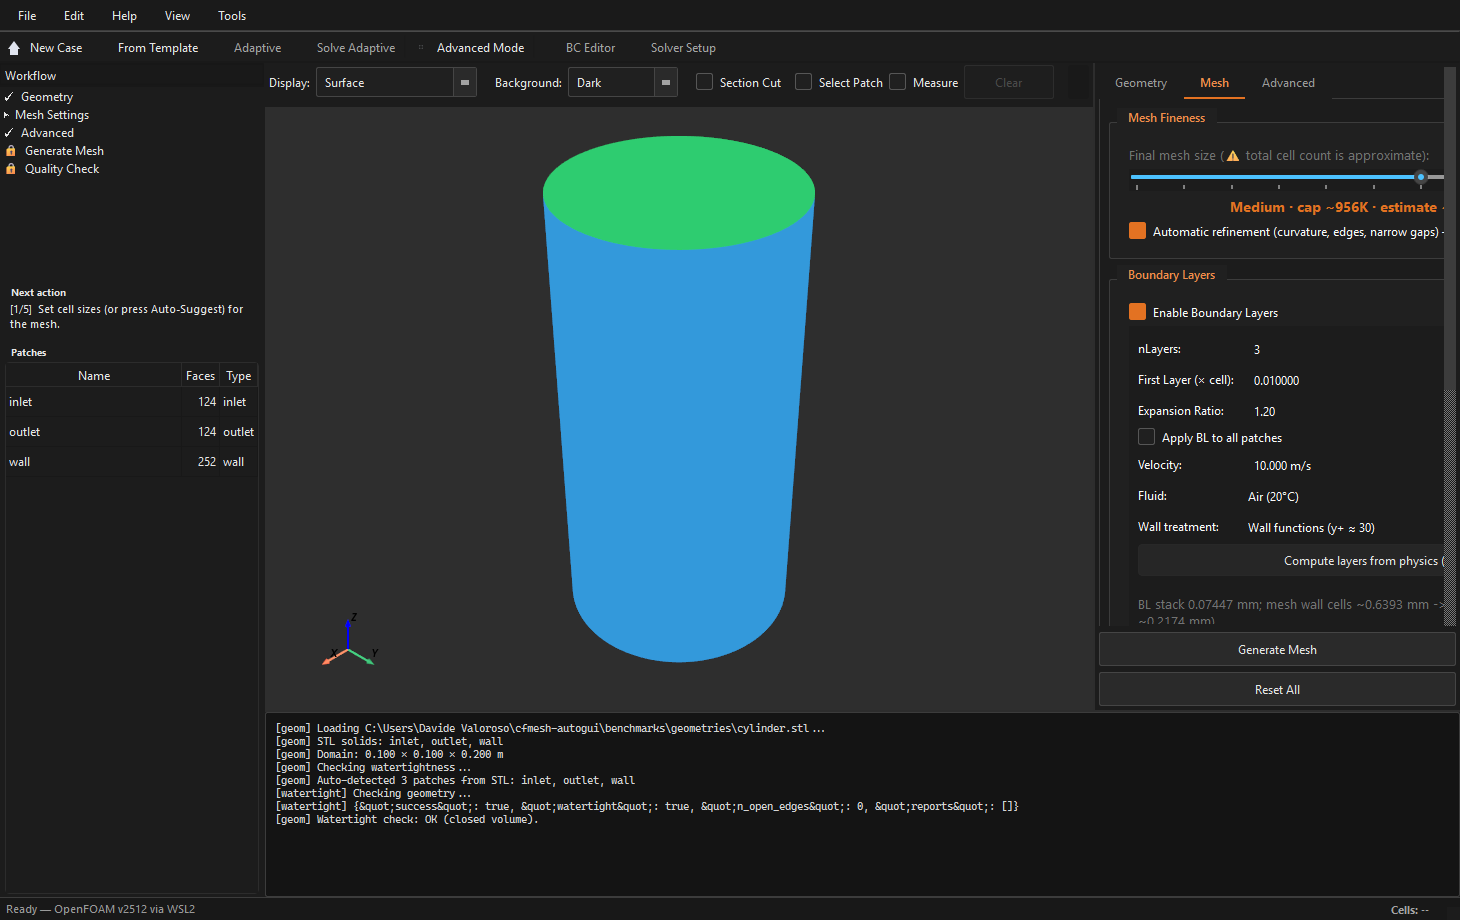
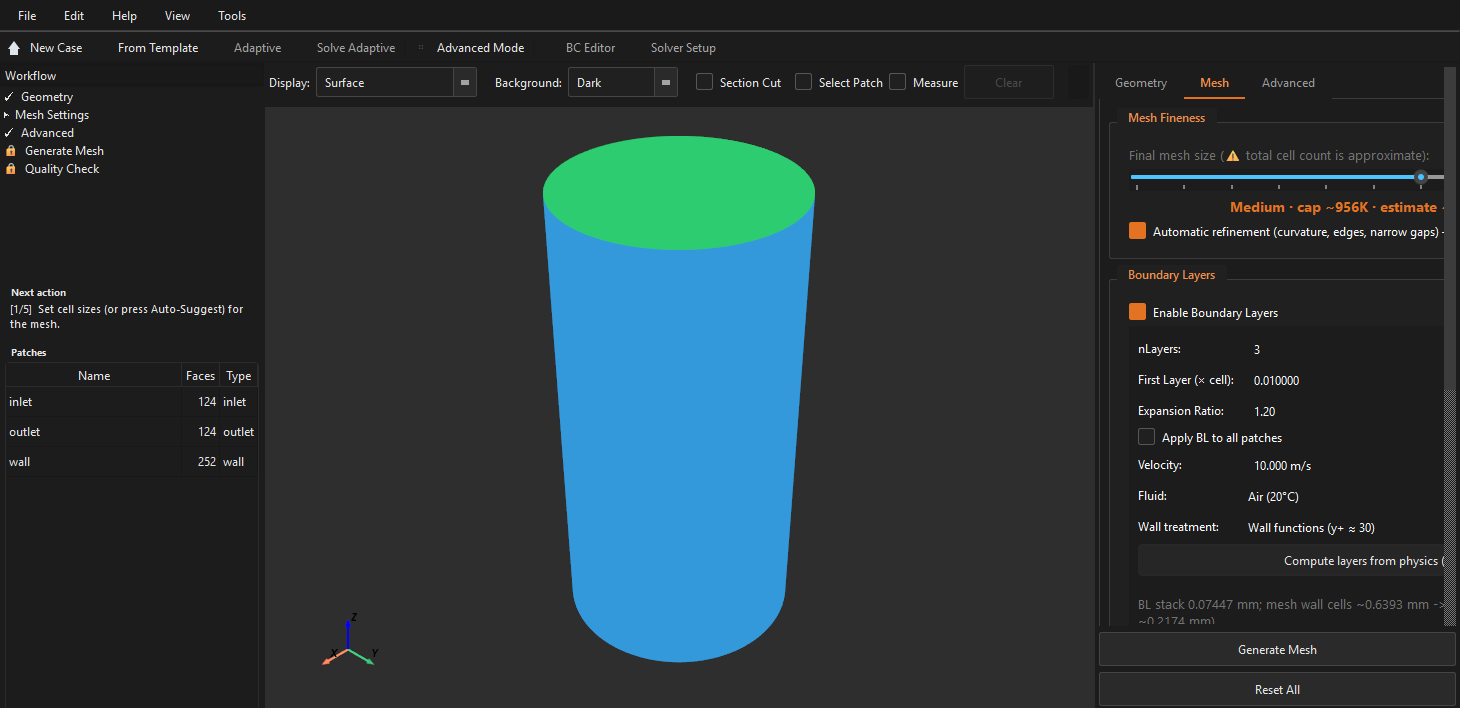
README: screenshot dell'interfaccia (ritagliati, senza percorsi locali)

diff --git a/README.md b/README.md
@@ -27,6 +27,14 @@ OpenFOAM case ready for the solver.
 *A 398K-cell polyhedral mesh with 9 boundary layers in the built-in 3D viewer;
 `checkMesh` passes (skewness 2.86, non-orthogonality 79.1°).*
 
+<p align="center">
+  <img src="docs/assets/mesher-selector.png" alt="PolyFoamMesh interface: workflow, patches and mesher selection" width="49%">
+  <img src="docs/assets/boundary-layers.png" alt="PolyFoamMesh interface: mesh fineness and boundary-layer settings" width="49%">
+</p>
+
+*The desktop interface: workflow steps and patches on the left, the 3D viewer in
+the middle, mesher choice and boundary-layer settings on the right.*
+
 - **Two meshing paths.** **Polymesh** (automatic, default) picks the tet engine from the
   measured geometry — GMSH first, fTetWild as fallback, every substitution logged —
   then builds the polyhedral dual and the boundary layer. **cfMesh** is the explicit
